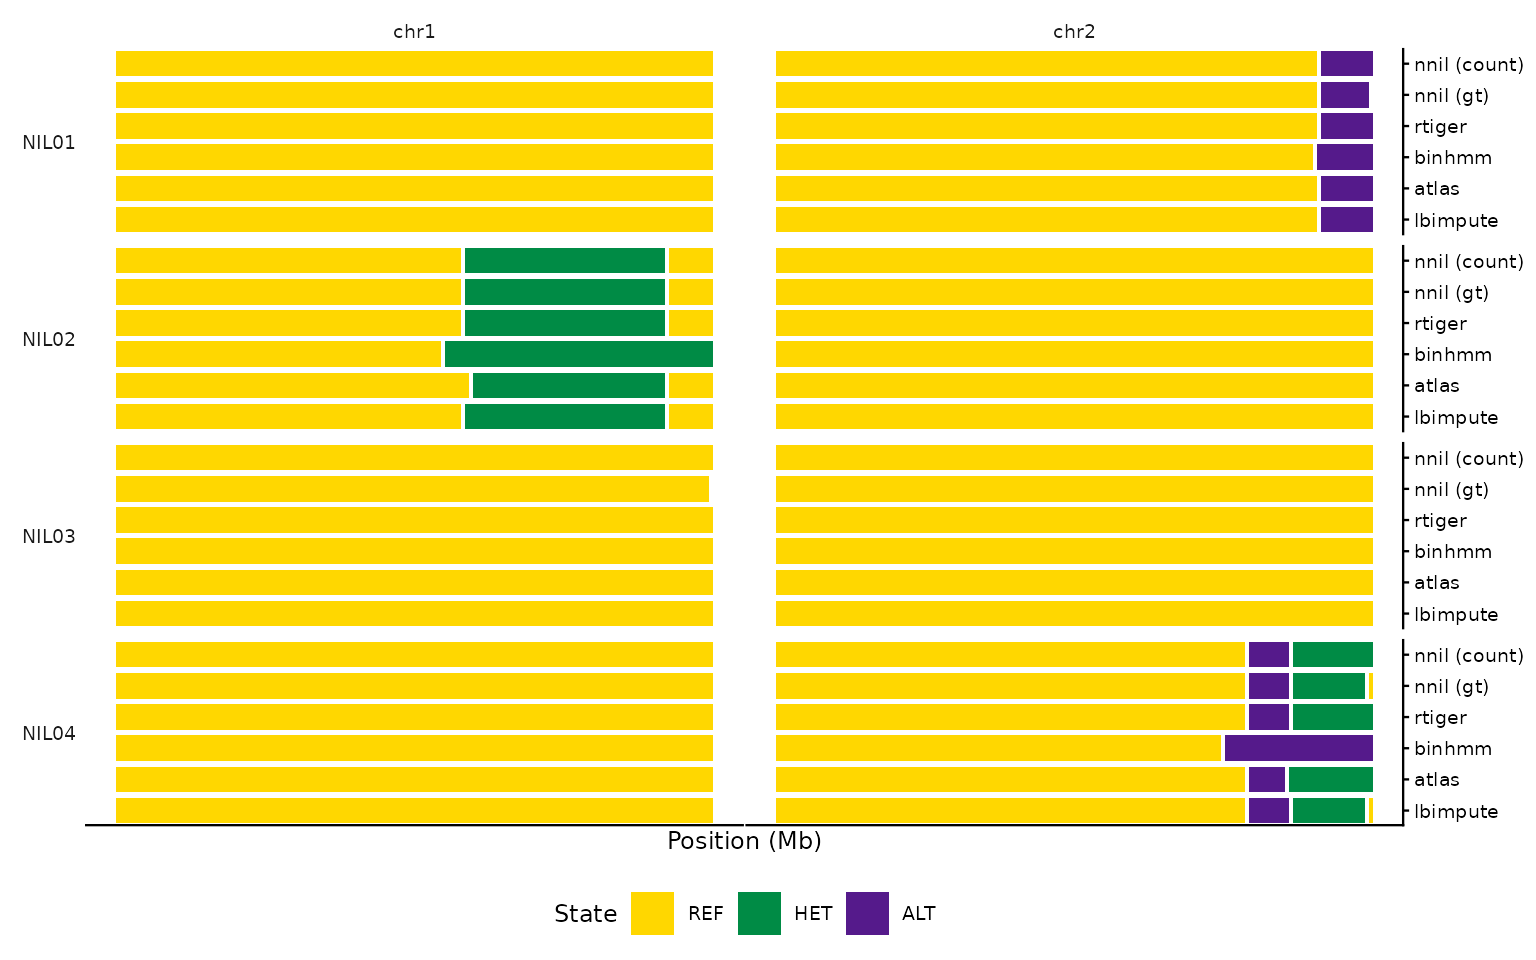
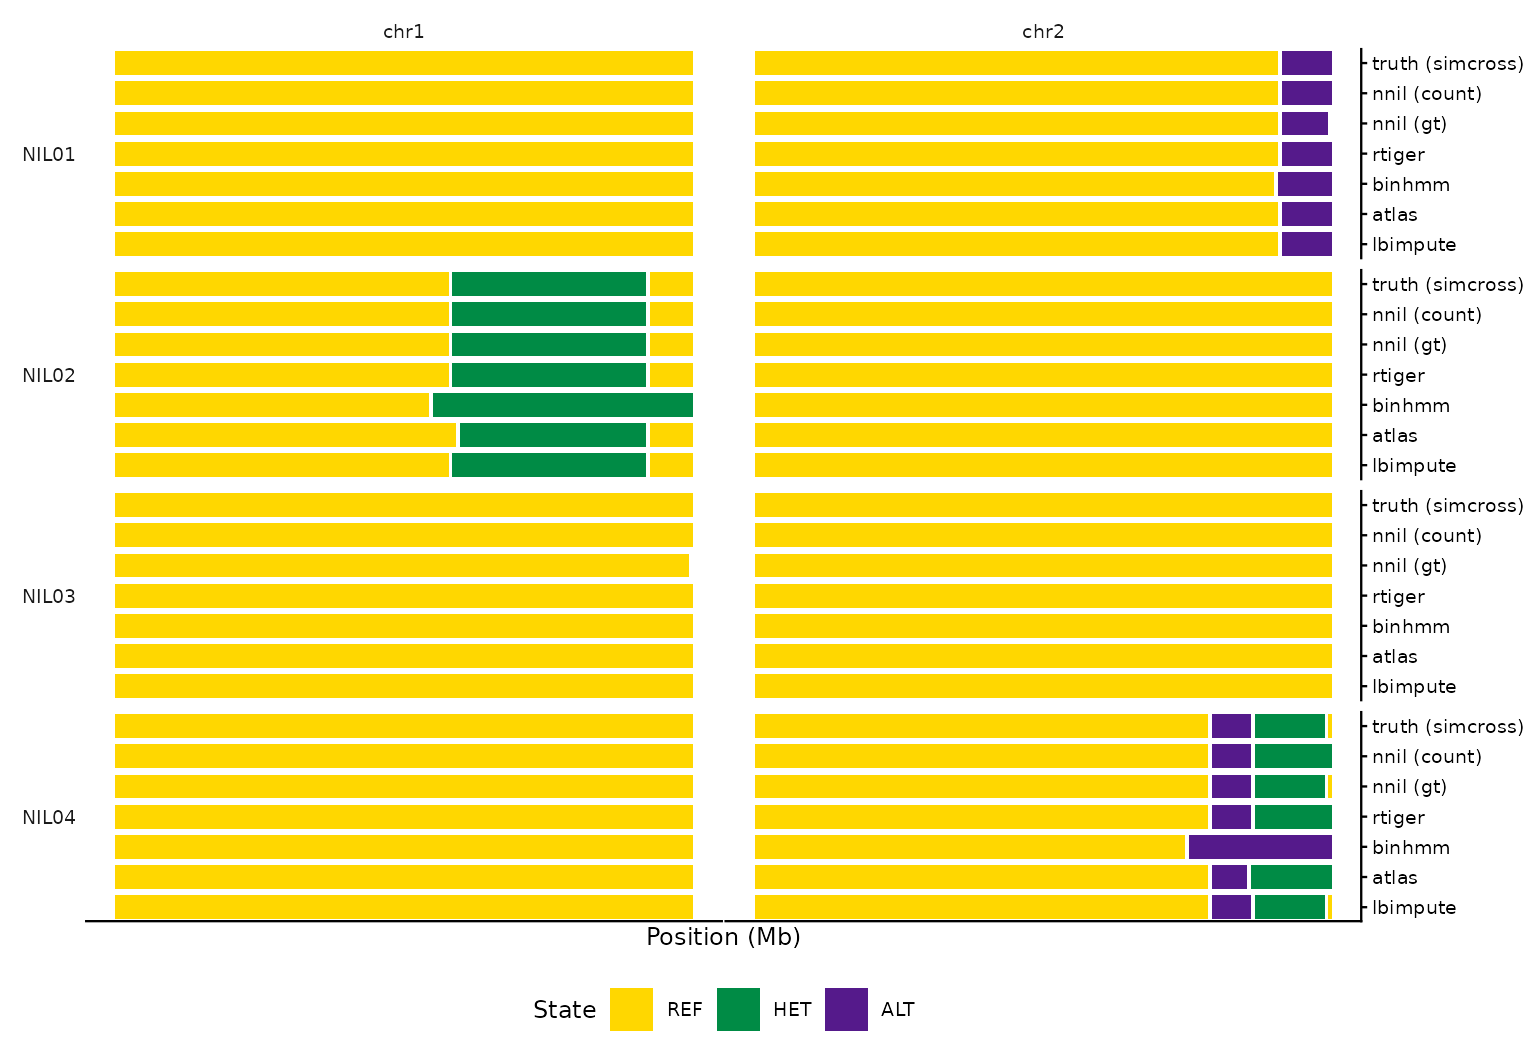
Deploying to gh-pages from @ sawers-rellan-labs/nilhmm@0a6a434ae39d9c2bc9a1eadfe8c1fdb8eb53e44f 🚀

Changed region(s): [[0.0, 0.0, 1.0, 1.0]]

diff --git a/articles/callers.html b/articles/callers.html
@@ -108,7 +108,8 @@ callers), from the same simulated genotypes.</p>
 <span>    <span class="fu"><a href="https://rdrr.io/r/base/data.frame.html" class="external-link">data.frame</a></span><span class="op">(</span>name <span class="op">=</span> <span class="fu"><a href="https://rdrr.io/r/base/rep.html" class="external-link">rep</a></span><span class="op">(</span><span class="fu"><a href="https://rdrr.io/r/base/sprintf.html" class="external-link">sprintf</a></span><span class="op">(</span><span class="st">"NIL%02d"</span>, <span class="fu"><a href="https://rdrr.io/r/base/seq.html" class="external-link">seq_len</a></span><span class="op">(</span><span class="va">n</span><span class="op">)</span><span class="op">)</span>, times <span class="op">=</span> <span class="va">m</span><span class="op">)</span>,</span>
 <span>               donor <span class="op">=</span> <span class="st">"B"</span>, family <span class="op">=</span> <span class="st">"B"</span>, chr <span class="op">=</span> <span class="va">ch</span>,</span>
 <span>               pos <span class="op">=</span> <span class="fu"><a href="https://rdrr.io/r/base/rep.html" class="external-link">rep</a></span><span class="op">(</span><span class="fu"><a href="https://rdrr.io/r/base/integer.html" class="external-link">as.integer</a></span><span class="op">(</span><span class="va">map</span> <span class="op">*</span> <span class="fl">1e6</span><span class="op">)</span>, each <span class="op">=</span> <span class="va">n</span><span class="op">)</span>,</span>
-<span>               n_ref <span class="op">=</span> <span class="va">d</span> <span class="op">-</span> <span class="va">na</span>, n_alt <span class="op">=</span> <span class="va">na</span>, g <span class="op">=</span> <span class="fu"><a href="https://rdrr.io/r/base/integer.html" class="external-link">as.integer</a></span><span class="op">(</span><span class="va">g_obs</span><span class="op">)</span><span class="op">)</span></span>
+<span>               n_ref <span class="op">=</span> <span class="va">d</span> <span class="op">-</span> <span class="va">na</span>, n_alt <span class="op">=</span> <span class="va">na</span>, g <span class="op">=</span> <span class="fu"><a href="https://rdrr.io/r/base/integer.html" class="external-link">as.integer</a></span><span class="op">(</span><span class="va">g_obs</span><span class="op">)</span>,</span>
+<span>               truth <span class="op">=</span> <span class="fu"><a href="https://rdrr.io/r/base/integer.html" class="external-link">as.integer</a></span><span class="op">(</span><span class="va">g</span><span class="op">)</span><span class="op">)</span>                       <span class="co"># noise-free simcross state</span></span>
 <span>  <span class="op">}</span><span class="op">)</span><span class="op">)</span></span>
 <span><span class="op">}</span></span>
 <span><span class="va">d</span> <span class="op">&lt;-</span> <span class="fu">sim_cohort</span><span class="op">(</span><span class="op">)</span>   <span class="co"># donor B (ALT) on recurrent A (REF)</span></span>
@@ -230,29 +231,40 @@ same counts:</p>
 <h3 id="chromosome-painting">Chromosome painting<a class="anchor" aria-label="anchor" href="#chromosome-painting"></a>
 </h3>
 <p>The real payoff of the shared schema is that you can <strong>paint
-every caller on the same axes</strong> and eyeball whether the
-independent methods agree on where the donor (<strong>B</strong>) blocks
-land. Each row is a NIL, each column a chromosome, and within a cell the
-six caller tracks are stacked as bands (REF gold / HET green / ALT
-purple).</p>
-<p><code><a href="../reference/paint_calls.html">paint_calls()</a></code> does this in one step: <code>rbind</code>
-each caller’s segments with a column naming the track, then pass that
-column as <code>track</code> (its levels stack as bands, first level on
-top). <code>samples</code> keeps the figure legible.</p>
+every caller on the same axes</strong> — against the simcross
+<strong>ground truth</strong> — and eyeball whether the independent
+methods recover the donor (<strong>B</strong>) blocks. Each row is a
+NIL, each column a chromosome, and within a cell the tracks are stacked
+as bands (REF gold / HET green / ALT purple), with the noise-free truth
+on top.</p>
+<p>The truth is just <code><a href="../reference/to_segments.html">to_segments()</a></code> on the simulated
+genotype <em>before</em> the depth and missingness were added (the
+<code>truth</code> column). <code><a href="../reference/paint_calls.html">paint_calls()</a></code> then stacks it
+above the callers: <code>rbind</code> each track’s segments with a
+column naming it, and pass that column as <code>track</code> (its levels
+stack top-down, so truth goes first).</p>
 <div class="sourceCode" id="cb10"><pre class="downlit sourceCode r">
 <code class="sourceCode R"><span><span class="va">tracks</span> <span class="op">&lt;-</span> <span class="fu"><a href="https://rdrr.io/r/base/list.html" class="external-link">list</a></span><span class="op">(</span><span class="st">"nnil (count)"</span> <span class="op">=</span> <span class="va">nnil_count</span>, <span class="st">"nnil (gt)"</span> <span class="op">=</span> <span class="va">nnil_gt</span>,</span>
 <span>               rtiger <span class="op">=</span> <span class="va">rt</span>, binhmm <span class="op">=</span> <span class="va">bh</span>, atlas <span class="op">=</span> <span class="va">at</span>, lbimpute <span class="op">=</span> <span class="va">lb</span><span class="op">)</span></span>
 <span><span class="va">comparison</span> <span class="op">&lt;-</span> <span class="fu"><a href="https://rdrr.io/r/base/do.call.html" class="external-link">do.call</a></span><span class="op">(</span><span class="va">rbind</span>, <span class="fu"><a href="https://rdrr.io/r/base/funprog.html" class="external-link">Map</a></span><span class="op">(</span><span class="kw">function</span><span class="op">(</span><span class="va">seg</span>, <span class="va">m</span><span class="op">)</span> <span class="op">{</span> <span class="va">seg</span><span class="op">$</span><span class="va">method</span> <span class="op">&lt;-</span> <span class="va">m</span>; <span class="va">seg</span> <span class="op">}</span>,</span>
 <span>                                 <span class="va">tracks</span>, <span class="fu"><a href="https://rdrr.io/r/base/names.html" class="external-link">names</a></span><span class="op">(</span><span class="va">tracks</span><span class="op">)</span><span class="op">)</span><span class="op">)</span></span>
-<span><span class="va">comparison</span><span class="op">$</span><span class="va">method</span> <span class="op">&lt;-</span> <span class="fu"><a href="https://rdrr.io/r/base/factor.html" class="external-link">factor</a></span><span class="op">(</span><span class="va">comparison</span><span class="op">$</span><span class="va">method</span>, levels <span class="op">=</span> <span class="fu"><a href="https://rdrr.io/r/base/names.html" class="external-link">names</a></span><span class="op">(</span><span class="va">tracks</span><span class="op">)</span><span class="op">)</span></span>
 <span></span>
+<span><span class="co"># simcross ground truth (noise-free) as the top track</span></span>
+<span><span class="va">truth</span> <span class="op">&lt;-</span> <span class="fu"><a href="../reference/to_segments.html">to_segments</a></span><span class="op">(</span><span class="fu"><a href="https://rdrr.io/r/base/data.frame.html" class="external-link">data.frame</a></span><span class="op">(</span>name <span class="op">=</span> <span class="va">d</span><span class="op">$</span><span class="va">name</span>, donor <span class="op">=</span> <span class="va">d</span><span class="op">$</span><span class="va">donor</span>,</span>
+<span>                                 chr <span class="op">=</span> <span class="va">d</span><span class="op">$</span><span class="va">chr</span>, pos <span class="op">=</span> <span class="va">d</span><span class="op">$</span><span class="va">pos</span>, state <span class="op">=</span> <span class="va">d</span><span class="op">$</span><span class="va">truth</span><span class="op">)</span><span class="op">)</span></span>
+<span><span class="va">truth</span><span class="op">$</span><span class="va">method</span> <span class="op">&lt;-</span> <span class="st">"truth (simcross)"</span></span>
+<span></span>
+<span><span class="va">comparison</span> <span class="op">&lt;-</span> <span class="fu"><a href="https://rdrr.io/r/base/cbind.html" class="external-link">rbind</a></span><span class="op">(</span><span class="va">truth</span>, <span class="va">comparison</span><span class="op">)</span></span>
+<span><span class="va">comparison</span><span class="op">$</span><span class="va">method</span> <span class="op">&lt;-</span> <span class="fu"><a href="https://rdrr.io/r/base/factor.html" class="external-link">factor</a></span><span class="op">(</span><span class="va">comparison</span><span class="op">$</span><span class="va">method</span>,</span>
+<span>                            levels <span class="op">=</span> <span class="fu"><a href="https://rdrr.io/r/base/c.html" class="external-link">c</a></span><span class="op">(</span><span class="st">"truth (simcross)"</span>, <span class="fu"><a href="https://rdrr.io/r/base/names.html" class="external-link">names</a></span><span class="op">(</span><span class="va">tracks</span><span class="op">)</span><span class="op">)</span><span class="op">)</span></span>
 <span><span class="fu"><a href="../reference/paint_calls.html">paint_calls</a></span><span class="op">(</span><span class="va">comparison</span>, track <span class="op">=</span> <span class="st">"method"</span>, samples <span class="op">=</span> <span class="fu"><a href="https://rdrr.io/r/base/sprintf.html" class="external-link">sprintf</a></span><span class="op">(</span><span class="st">"NIL%02d"</span>, <span class="fl">1</span><span class="op">:</span><span class="fl">4</span><span class="op">)</span><span class="op">)</span></span></code></pre></div>
 <p><img src="callers_files/figure-html/paint-1.png" class="r-plt" alt="" width="768"></p>
-<p>The donor blocks land in the same place across the independent
-callers — the core sanity check — with expected method-specific
-behaviour (e.g. <code>binhmm</code> paints broader per-bin blocks). This
-is the same painting used for the real coverage-sweep NILs; on real data
-it is how you confirm the tracks corroborate each other.</p>
+<p>The callers recover the true donor blocks — each caller’s band lines
+up with the truth on top — with expected method-specific behaviour
+(e.g. <code>binhmm</code> paints broader per-bin blocks). This is the
+same painting used for the real coverage-sweep NILs, where the truth
+track is instead an independent data source or a high-confidence call
+set.</p>
 <p>For per-caller parameters and lineage, see
 <code><a href="../reference/call_ancestry.html">?call_ancestry</a></code> and the README caller table. ```</p>
 </div>
@@ -268,7 +280,7 @@ it is how you confirm the tracks corroborate each other.</p>
 </div>
 
 <div class="pkgdown-footer-right">
-  <p>Site built with <a href="https://pkgdown.r-lib.org/" class="external-link">pkgdown</a> 2.2.0.</p>
+  <p>Site built with <a href="https://pkgdown.r-lib.org/" class="external-link">pkgdown</a> 2.2.1.</p>
 </div>
 
     </footer>

diff --git a/404.html b/404.html
@@ -70,7 +70,7 @@ Content not found. Please use links in the navbar.
 </div>
 
 <div class="pkgdown-footer-right">
-  <p>Site built with <a href="https://pkgdown.r-lib.org/" class="external-link">pkgdown</a> 2.2.0.</p>
+  <p>Site built with <a href="https://pkgdown.r-lib.org/" class="external-link">pkgdown</a> 2.2.1.</p>
 </div>
 
     </footer>

diff --git a/CLAUDE.html b/CLAUDE.html
@@ -163,7 +163,7 @@
 </div>
 
 <div class="pkgdown-footer-right">
-  <p>Site built with <a href="https://pkgdown.r-lib.org/" class="external-link">pkgdown</a> 2.2.0.</p>
+  <p>Site built with <a href="https://pkgdown.r-lib.org/" class="external-link">pkgdown</a> 2.2.1.</p>
 </div>
 
     </footer></div>

diff --git a/LICENSE-text.html b/LICENSE-text.html
@@ -51,7 +51,7 @@ COPYRIGHT HOLDER: sawers-rellan-labs
 </div>
 
 <div class="pkgdown-footer-right">
-  <p>Site built with <a href="https://pkgdown.r-lib.org/" class="external-link">pkgdown</a> 2.2.0.</p>
+  <p>Site built with <a href="https://pkgdown.r-lib.org/" class="external-link">pkgdown</a> 2.2.1.</p>
 </div>
 
     </footer></div>

diff --git a/LICENSE.html b/LICENSE.html
@@ -55,7 +55,7 @@
 </div>
 
 <div class="pkgdown-footer-right">
-  <p>Site built with <a href="https://pkgdown.r-lib.org/" class="external-link">pkgdown</a> 2.2.0.</p>
+  <p>Site built with <a href="https://pkgdown.r-lib.org/" class="external-link">pkgdown</a> 2.2.1.</p>
 </div>
 
     </footer></div>

diff --git a/articles/engine.html b/articles/engine.html
@@ -242,7 +242,7 @@ their own drivers, but they emit the same segment schema. See
 </div>
 
 <div class="pkgdown-footer-right">
-  <p>Site built with <a href="https://pkgdown.r-lib.org/" class="external-link">pkgdown</a> 2.2.0.</p>
+  <p>Site built with <a href="https://pkgdown.r-lib.org/" class="external-link">pkgdown</a> 2.2.1.</p>
 </div>
 
     </footer>

diff --git a/articles/fsfhap.html b/articles/fsfhap.html
@@ -214,7 +214,7 @@ list. ```</p>
 </div>
 
 <div class="pkgdown-footer-right">
-  <p>Site built with <a href="https://pkgdown.r-lib.org/" class="external-link">pkgdown</a> 2.2.0.</p>
+  <p>Site built with <a href="https://pkgdown.r-lib.org/" class="external-link">pkgdown</a> 2.2.1.</p>
 </div>
 
     </footer>

diff --git a/articles/index.html b/articles/index.html
@@ -59,7 +59,7 @@
 </div>
 
 <div class="pkgdown-footer-right">
-  <p>Site built with <a href="https://pkgdown.r-lib.org/" class="external-link">pkgdown</a> 2.2.0.</p>
+  <p>Site built with <a href="https://pkgdown.r-lib.org/" class="external-link">pkgdown</a> 2.2.1.</p>
 </div>
 
     </footer></div>

diff --git a/articles/nilHMM.html b/articles/nilHMM.html
@@ -309,7 +309,7 @@ each.</p>
 </div>
 
 <div class="pkgdown-footer-right">
-  <p>Site built with <a href="https://pkgdown.r-lib.org/" class="external-link">pkgdown</a> 2.2.0.</p>
+  <p>Site built with <a href="https://pkgdown.r-lib.org/" class="external-link">pkgdown</a> 2.2.1.</p>
 </div>
 
     </footer>

diff --git a/authors.html b/authors.html
@@ -85,7 +85,7 @@ R package version 0.1.0, <a href="https://github.com/sawers-rellan-labs/nilhmm" 
 </div>
 
 <div class="pkgdown-footer-right">
-  <p>Site built with <a href="https://pkgdown.r-lib.org/" class="external-link">pkgdown</a> 2.2.0.</p>
+  <p>Site built with <a href="https://pkgdown.r-lib.org/" class="external-link">pkgdown</a> 2.2.1.</p>
 </div>
 
     </footer></div>

diff --git a/index.html b/index.html
@@ -297,7 +297,7 @@ https://doi.org/10.1101/2025.01.29.635337</code></pre>
 </div>
 
 <div class="pkgdown-footer-right">
-  <p>Site built with <a href="https://pkgdown.r-lib.org/" class="external-link">pkgdown</a> 2.2.0.</p>
+  <p>Site built with <a href="https://pkgdown.r-lib.org/" class="external-link">pkgdown</a> 2.2.1.</p>
 </div>
 
     </footer>

diff --git a/news/index.html b/news/index.html
@@ -92,7 +92,7 @@
 </div>
 
 <div class="pkgdown-footer-right">
-  <p>Site built with <a href="https://pkgdown.r-lib.org/" class="external-link">pkgdown</a> 2.2.0.</p>
+  <p>Site built with <a href="https://pkgdown.r-lib.org/" class="external-link">pkgdown</a> 2.2.1.</p>
 </div>
 
     </footer></div>